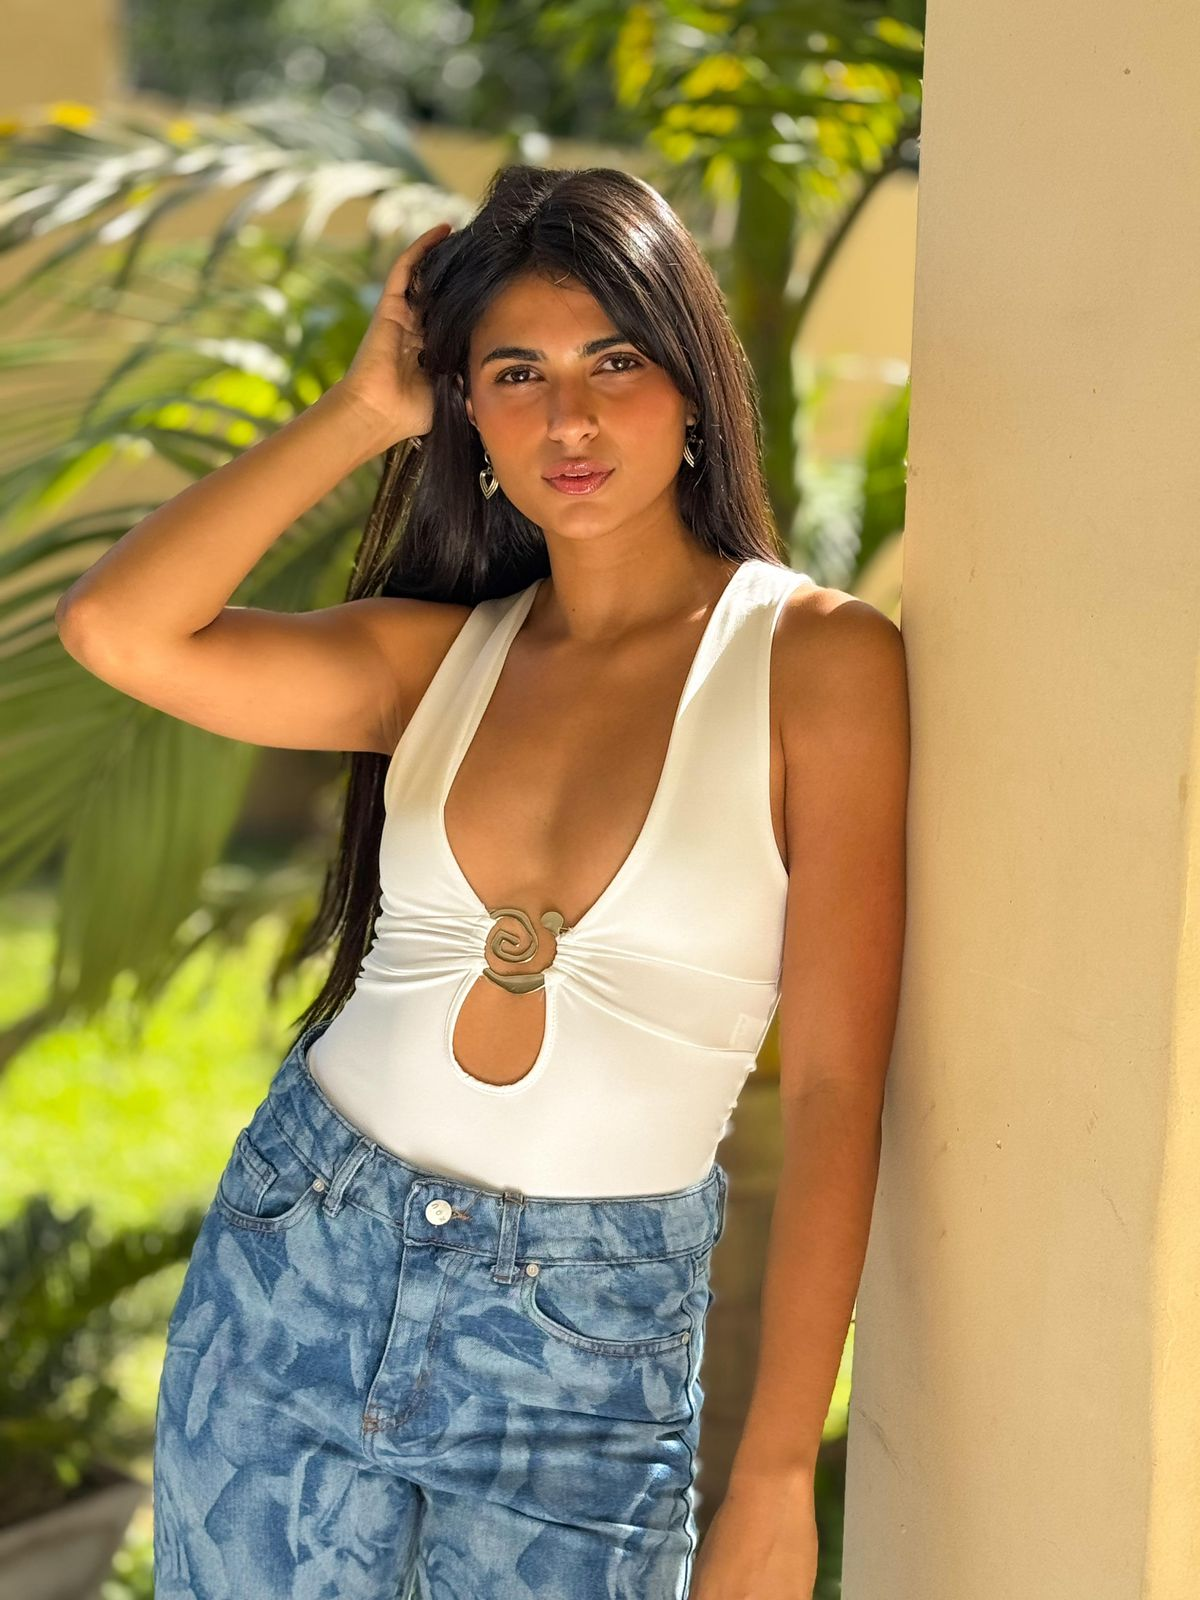
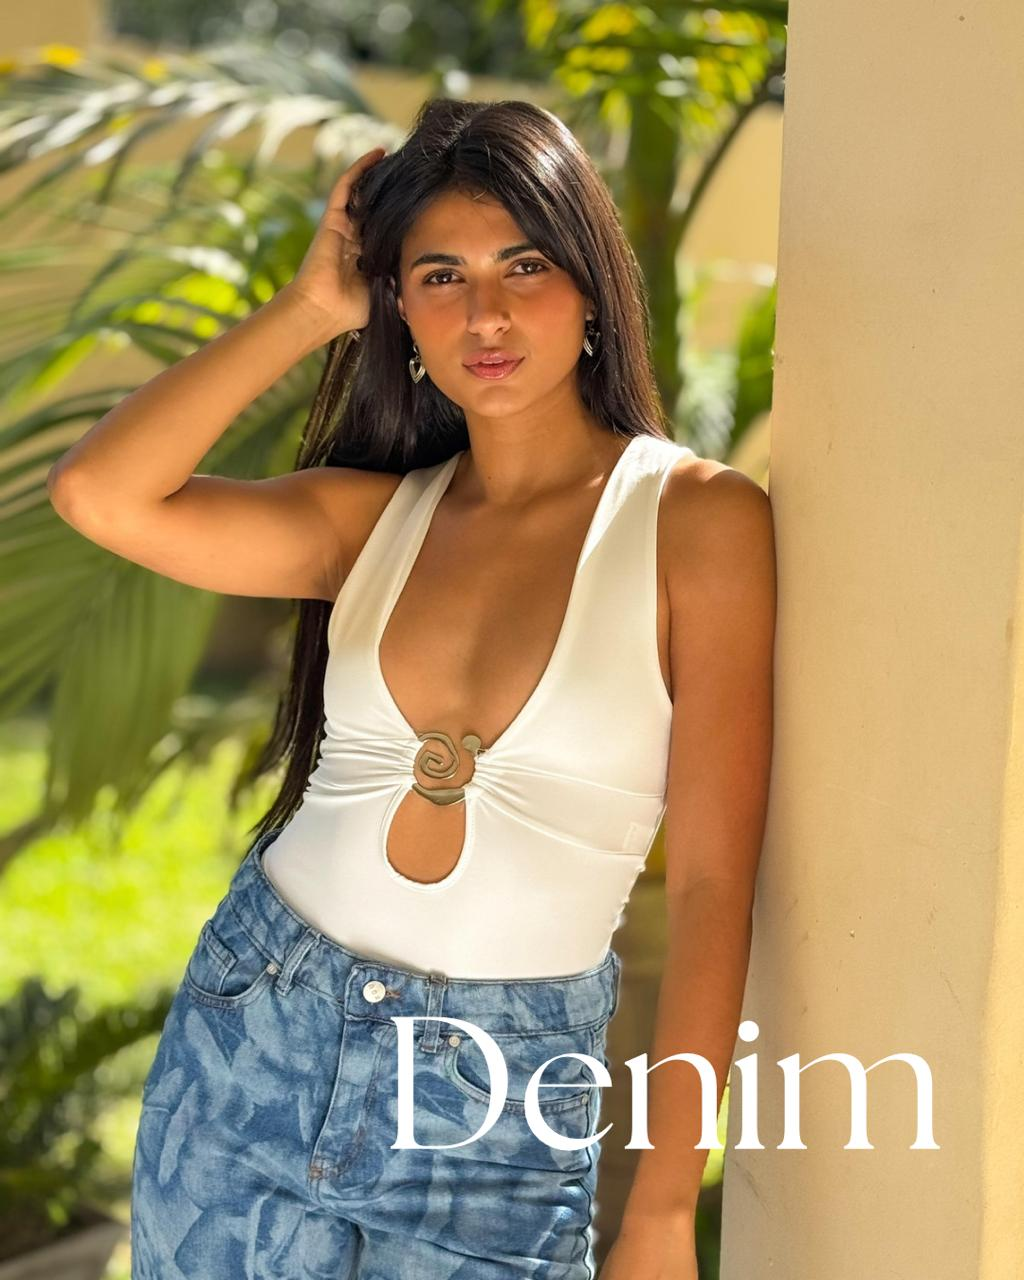
Se agregan portadas

diff --git a/src/Components/DuoShowcase.jsx b/src/Components/DuoShowcase.jsx
@@ -43,7 +43,7 @@ function ImageCard({
       viewport={{ once: true, amount: 0.5 }}
       transition={{ duration: 0.5, ease: [0.22, 1, 0.36, 1] }}
       className="group relative overflow-hidden rounded-none bg-black"
-      style={{ aspectRatio: ratio }} // mismo formato en todas las resoluciones
+      style={{ aspectRatio: ratio }}
     >
       <img
         src={src}
@@ -61,8 +61,8 @@ function ImageCard({
         className="absolute inset-x-0 bottom-0 h-28 bg-gradient-to-b from-transparent to-black/65"
       />
 
-      {/* Botón Ver más */}
-      <div className="absolute bottom-3 left-3">
+      {/* Botón Ver más: arriba en mobile, abajo en desktop */}
+      <div className="absolute left-3 top-3 md:top-auto md:bottom-3">
         <ViewMoreButton
           label="Ver más"
           href={href}
@@ -79,6 +79,7 @@ function ImageCard({
     </motion.div>
   );
 }
+
 
 /**
  * DuoShowcase v2 (full-bleed)
